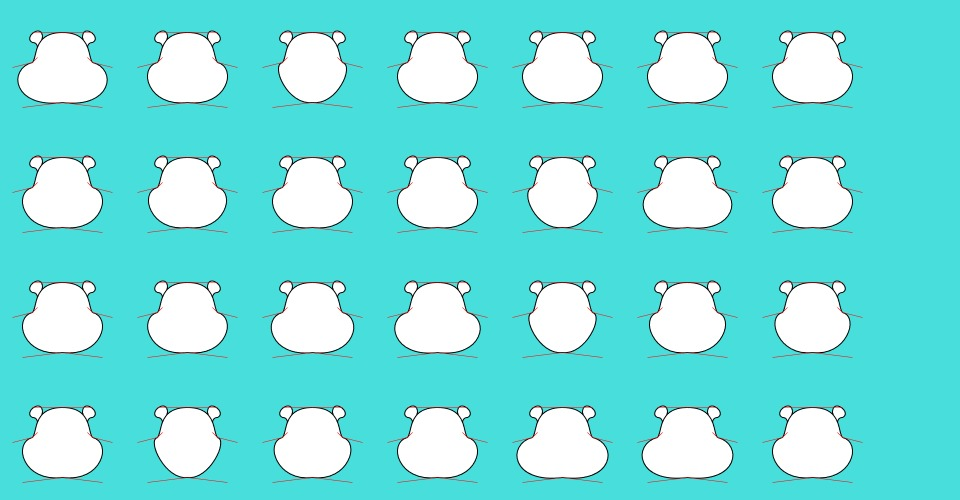
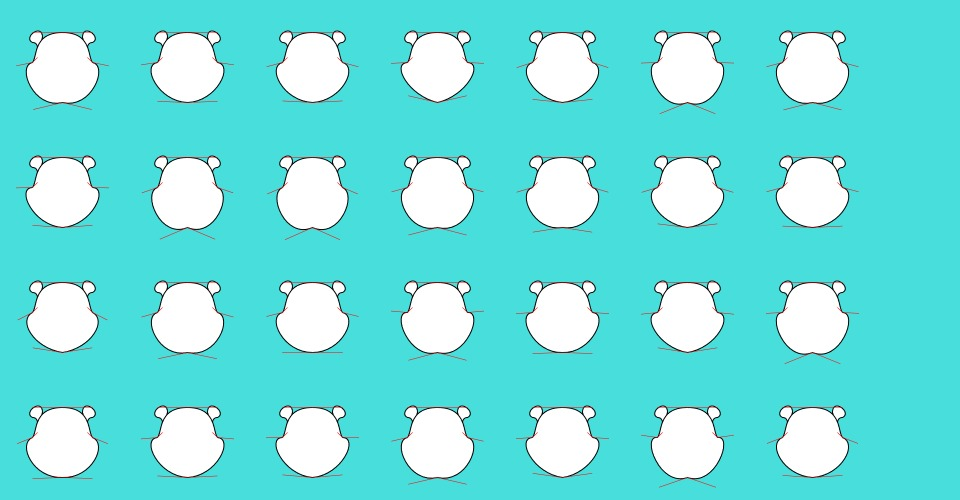
lower face function, handle controls

diff --git a/face_code.js b/face_code.js
@@ -14,21 +14,16 @@
  * mouth_value is how open the mouth is and should generally range from 0.5 to 10
  */
 
+// Acronym:
+// UF = Upper Face
+// MF = Middle line of Face
+// LF = Lower Face
 
-
-function myFace(lowerFaceSize){
+function myFace(Cheek, Jaw){
+  angleMode(DEGREES);
   rectMode(CENTER);
   strokeWeight(0.2);
-  // fill(200);
-  //   ellipse(0,0,20);
-  //   fill(255);
-  //   ellipse(-5,-3,5);
-  //   ellipse(5,-3,5);
-  //   fill(100);
-  //   rect(0,5,7,3);
-  //   fill(2555);
-  //   rect(0,4,7,1);
-  //   rect(0,7,7,1);
+  
   
   // Left ear
   beginShape();
@@ -46,39 +41,109 @@ function myFace(lowerFaceSize){
   bezierVertex(4.5, -4, 3.5, -4, 3.5, -4);
   endShape();
 
-  // Upper half face
+  // Upper half of face
   beginShape();
   vertex(-6, 0);
   bezierVertex(-5, -1, -6, -6, 0, -6);
   bezierVertex(6, -6, 5, -1, 6, 0);
   endShape();
 
-  // Lower half face
+  // // Lower half of face
+  // // Define bezier's start and end points
+  // let LF_st_X = -6;
+  // let LF_st_Y = 0;
+  // let LF_ed_X1 = 0;
+  // let LF_ed_Y1 = 8;
+  // let LF_ed_X2 = 6;
+  // let LF_ed_Y2 = 0;
+
+  // // Bezier degree
+  // // let lowerFaceSize = 0.4;
+
+  // // Control points coordinates
+  // let LF_ctrl_X1 = LF_st_X + (LF_ed_X1-4)  * lowerFaceSize;
+  // let LF_ctrl_Y1 = LF_st_Y + (LF_ed_Y1-7)  * lowerFaceSize;
+  // let LF_ctrl_X2 = LF_ed_X1 + (LF_ed_X1 - 8) * lowerFaceSize;
+  // let LF_ctrl_Y2 = LF_ed_Y1 + (LF_ed_Y1 -7) * lowerFaceSize;
+  // let LF_ctrl_X3 = LF_ed_X1 + (LF_ed_X2+2)  * lowerFaceSize;
+  // let LF_ctrl_Y3 = LF_ed_Y1 + (LF_ed_Y2+1)  * lowerFaceSize;
+  // let LF_ctrl_X4 = LF_ed_X2 + (LF_ed_X2 - 2) * lowerFaceSize;
+  // let LF_ctrl_Y4 = LF_ed_Y2 + (LF_ed_Y2 +1) * lowerFaceSize;
+
+  // beginShape();
+  // vertex(LF_st_X, LF_st_Y);
+  // bezierVertex(LF_ctrl_X1, LF_ctrl_Y1, LF_ctrl_X2, LF_ctrl_Y2, LF_ed_X1, LF_ed_Y1);
+  // bezierVertex(LF_ctrl_X3, LF_ctrl_Y3, LF_ctrl_X4, LF_ctrl_Y4, LF_ed_X2, LF_ed_Y2);
+  // endShape();
+
+  // // beginShape();
+  // // vertex(-6, 0);
+  // // bezierVertex(-10, 1, -8, 9, 0, 8);
+  // // bezierVertex(8, 9, 10, 1, 6, 0);
+  // // endShape();
+
+  // /////////////////////////////////////////
+  // // Draw Control lines
+  // stroke(255,0,0);
+  // strokeWeight(0.1);
+  // // Upper bezier control lines
+  // line(-6, 0, -5, -1);
+  // line(-6, -6, 0, -6);
+  // line(0, -6, 6, -6);
+  // line(5, -1, 6, 0);
+
+  // // Lower bezier control lines
+  // line(-6, 0, -10, 1);
+  // line(-8, 9, 0, 8);
+  // line(0, 8, 8, 9);
+  // line(10, 1, 6, 0);
+  ///////////////////////////////////////////
+  lowerFace(Cheek, Jaw);
+}
+
+function lowerFace(Cheek, Jaw){
+  // Cheek is the angles of lower control lines (below middle line of face)
+  // Jaw is the angles of bottom control lines
   // Define bezier's start and end points
-  let LF_st_X = -6;
+  let LF_ctrl_Radius1 = 3.3;
+  let LF_ctrl_Radius2 = 6;
+  // Cheek = 17;
+  // Jaw = 20;
+  let MF_width = 6;
+
+  let LF_st_X = -MF_width;
   let LF_st_Y = 0;
   let LF_ed_X1 = 0;
   let LF_ed_Y1 = 8;
-  let LF_ed_X2 = 6;
+  let LF_ed_X2 = MF_width;
   let LF_ed_Y2 = 0;
+
+  let LF_ctrl_X1 = LF_st_X + cos(180-Cheek) * LF_ctrl_Radius1; // Lower left control point X
+  let LF_ctrl_Y1 = LF_st_Y + sin(180-Cheek) * LF_ctrl_Radius1; // Lower left control point Y
+  let LF_ctrl_X2 = LF_ed_X1 + cos(180-Jaw) * LF_ctrl_Radius2; // Bottom left control point X
+  let LF_ctrl_Y2 = LF_ed_Y1 + sin(180-Jaw) * LF_ctrl_Radius2; // Bottom left control point Y
+  let LF_ctrl_X3 = LF_ed_X1 + cos(Jaw) * LF_ctrl_Radius2; // Bottom right control point X
+  let LF_ctrl_Y3 = LF_ed_Y1 + sin(Jaw) * LF_ctrl_Radius2; // Bottom right control point Y
+  let LF_ctrl_X4 = LF_ed_X2 + cos(Cheek) * LF_ctrl_Radius1; // Lower right control point X
+  let LF_ctrl_Y4 = LF_ed_Y2 + sin(Cheek) * LF_ctrl_Radius1; // Lower right control point Y
 
   // Bezier degree
   // let lowerFaceSize = 0.4;
 
   // Control points coordinates
-  let LF_ctrl_X1 = LF_st_X + (LF_ed_X1-4)  * lowerFaceSize;
-  let controlY1 = LF_st_Y + (LF_ed_Y1-7)  * lowerFaceSize;
-  let LF_ctrl_X2 = LF_ed_X1 + (LF_ed_X1 - 8) * lowerFaceSize;
-  let controlY2 = LF_ed_Y1 + (LF_ed_Y1 -7) * lowerFaceSize;
-  let LF_ctrl_X3 = LF_ed_X1 + (LF_ed_X2+2)  * lowerFaceSize;
-  let controlY3 = LF_ed_Y1 + (LF_ed_Y2+1)  * lowerFaceSize;
-  let LF_ctrl_X4 = LF_ed_X2 + (LF_ed_X2 - 2) * lowerFaceSize;
-  let controlY4 = LF_ed_Y2 + (LF_ed_Y2 +1) * lowerFaceSize;
+  // let LF_ctrl_X1 = LF_st_X + (LF_ed_X1-4)  * lowerFaceSize;
+  // let LF_ctrl_Y1 = LF_st_Y + (LF_ed_Y1-7)  * lowerFaceSize;
+  // let LF_ctrl_X2 = LF_ed_X1 + (LF_ed_X1 - 8) * lowerFaceSize;
+  // let LF_ctrl_Y2 = LF_ed_Y1 + (LF_ed_Y1 -7) * lowerFaceSize;
+  // let LF_ctrl_X3 = LF_ed_X1 + (LF_ed_X2+2)  * lowerFaceSize;
+  // let LF_ctrl_Y3 = LF_ed_Y1 + (LF_ed_Y2+1)  * lowerFaceSize;
+  // let LF_ctrl_X4 = LF_ed_X2 + (LF_ed_X2 - 2) * lowerFaceSize;
+  // let LF_ctrl_Y4 = LF_ed_Y2 + (LF_ed_Y2 +1) * lowerFaceSize;
 
   beginShape();
   vertex(LF_st_X, LF_st_Y);
-  bezierVertex(LF_ctrl_X1, controlY1, LF_ctrl_X2, controlY2, LF_ed_X1, LF_ed_Y1);
-  bezierVertex(LF_ctrl_X3, controlY3, LF_ctrl_X4, controlY4, LF_ed_X2, LF_ed_Y2);
+  bezierVertex(LF_ctrl_X1, LF_ctrl_Y1, LF_ctrl_X2, LF_ctrl_Y2, LF_ed_X1, LF_ed_Y1);
+  bezierVertex(LF_ctrl_X3, LF_ctrl_Y3, LF_ctrl_X4, LF_ctrl_Y4, LF_ed_X2, LF_ed_Y2);
   endShape();
 
   // beginShape();
@@ -98,13 +163,19 @@ function myFace(lowerFaceSize){
   line(5, -1, 6, 0);
 
   // Lower bezier control lines
-  line(-6, 0, -10, 1);
-  line(-8, 9, 0, 8);
-  line(0, 8, 8, 9);
-  line(10, 1, 6, 0);
+  line(LF_st_X, LF_st_Y, LF_ctrl_X1, LF_ctrl_Y1);
+  line(LF_ctrl_X2, LF_ctrl_Y2, LF_ed_X1, LF_ed_Y1);
+  line(LF_ed_X1, LF_ed_Y1, LF_ctrl_X3, LF_ctrl_Y3);
+  line(LF_ctrl_X4, LF_ctrl_Y4, LF_ed_X2, LF_ed_Y2);
   ///////////////////////////////////////////
 }
 
+
+
+
+
+
+///////////////////////////////////////////////////////////////////////////////////////////////////
 function orangeAlienFace(tilt_value, eye_value, mouth_value) {
   const bg_color3 = [71, 222, 219];
   const fg_color3 = [255, 93, 35];
@@ -143,7 +214,6 @@ function orangeAlienFace(tilt_value, eye_value, mouth_value) {
   ellipse(centerX, Iy + MouthDrop, distactBetweenEyes, mouth_value);
 }
 
-
 function simplePurpleFace() {
   fill(234, 122, 244);
   noStroke();
@@ -171,3 +241,4 @@ function blockyFace(thinness_value) {
   ellipse(-2, -4, 1);
   ellipse( 2, -4, 1);
 }
+////////////////////////////////////////////////////////////////////////////////////////////////////

diff --git a/editor.js b/editor.js
@@ -47,7 +47,7 @@ function setup () {
   faceSelector.option('2');
   faceSelector.option('3');
   faceSelector.option('4');
-  faceSelector.value('4');
+  faceSelector.value('1');
   faceSelector.parent('selector1Container');
 }
 
@@ -84,7 +84,15 @@ function draw () {
   scale(face_scale);
 
   push();
+
   if (mode == '1') {
+    let Cheek = map(s4, 0, 100, -5, 35);
+    let Jaw = map(s5, 0, 100, -10, 30);
+
+    myFace(Cheek, Jaw);
+  }
+
+  if (mode == '2') {
    // draw face using values mapped from 3 sliders
    let tilt_value = map(s1, 0, 100, -90, 90);
    let mouth_value = map(s2, 0, 100, 0.5, 10);
@@ -92,20 +100,17 @@ function draw () {
    orangeAlienFace(tilt_value, eye_value, mouth_value);
   }
 
-  if (mode == '2') {
+  if (mode == '3') {
      // let slider value 1 indicate thinness
      blockyFace(s1);
   }
-  if (mode == '3') {
+  if (mode == '4') {
     simplePurpleFace();
   }
-  if (mode == '4') {
-    let lowerFaceSize = map(s1, 0, 100, 0.3, 1.3);
-    myFace(lowerFaceSize);
-  }
-
+ 
   pop();
 
+  push();
   if(show_face_guide) {
     strokeWeight(0.1);
     rectMode(CORNER); 
@@ -133,6 +138,8 @@ function draw () {
   
   fill(0);
   text("Mouse X: " + mX + ", Mouse Y: " + mY, 410, 20);
+  pop();
+
   pop();
 }
 

diff --git a/arrangement.js b/arrangement.js
@@ -59,7 +59,8 @@ function draw () {
         // let mouth_value = random(3,4);
         let is_cyclops = random(0, 100);
 
-        let lowerFaceSize = int(random(1,1.5));
+        let Cheek = int(random(-10,30));
+        let Jaw = int(random(-15,25));
 
         // if(is_cyclops < 10) {
         //   eye_value = 1;
@@ -69,8 +70,8 @@ function draw () {
 
         if(is_cyclops >= 10 && is_cyclops <=50) {
           // eye_value = 1;
-          lowerFaceSize = random(0.3, 1.3);
-          // mouth_value = random(0, 1.7);
+          Cheek = random(0, 20);
+          Jaw = random(-5, 15);
         }
 
 
@@ -79,7 +80,7 @@ function draw () {
         scale(w/25, h/25);
         
         // orangeAlienFace(tilt_value, eye_value, mouth_value);
-        myFace(lowerFaceSize);
+        myFace(Cheek, Jaw);
         pop();
       
     }

diff --git a/editor.html b/editor.html
@@ -49,11 +49,11 @@
                     <td id="slider3Container"></td>
                 </tr>
                 <tr>
-                    <td>Setting 4</td>
+                    <td>Cheek</td>
                     <td id="slider4Container"></td>
                 </tr>
                 <tr>
-                    <td>Setting 5</td>
+                    <td>Jaw</td>
                     <td id="slider5Container"></td>
                 </tr>
                 <tr>

diff --git a/README.md b/README.md
@@ -3,6 +3,6 @@
 ## 2023 MDDN342 Assignment 2: Randomised Collections
 **This is where you talk about your project!**
 
->Added control lines (red) to see the bezier controls clearly.
-I've finally get the beziers to move with the slider, now the lower part of the panda face can be changed from flat to round (not exactly what I want for the shape), but it's a good sign at this stage. I'll apply the function to other parts of the face. Eyes, nose and mouth will be added later.
-
+>I've made the control points like handles, which means that the 'start point' or 'end point' of a bezier shape is the center of circle, the length between 'start point'/'end point' and control point is the radius of circle, so the control point is like moving(rotating) along circle by changing the 'angle'. I think it is easier to make control of the beziers.
+Now only the lower part of the face is done and I'll apply the similar codes for the upper part of the face. The face's size control will be one function, soon I'll make functions of ears, eyes and mouth.
+There are Cheek and Jaw sliders to change the lower face size.
